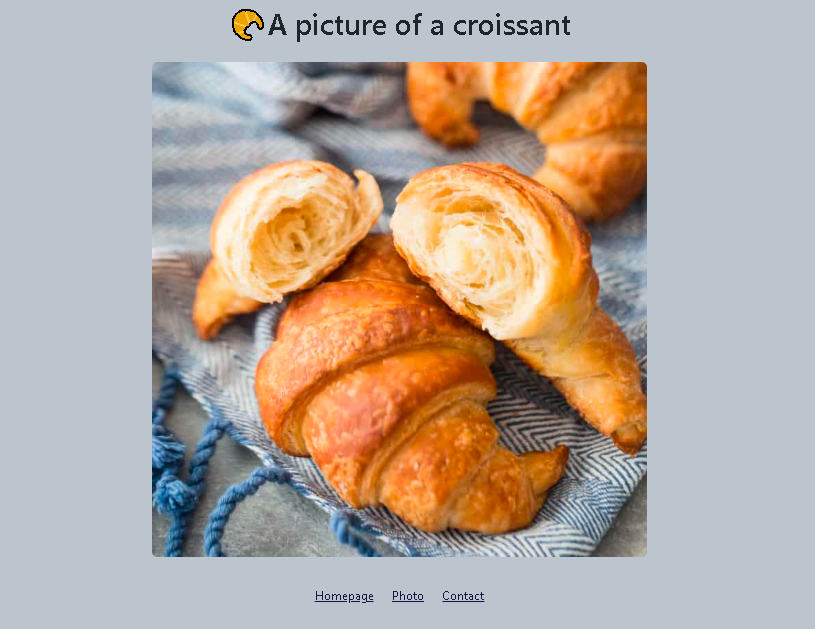
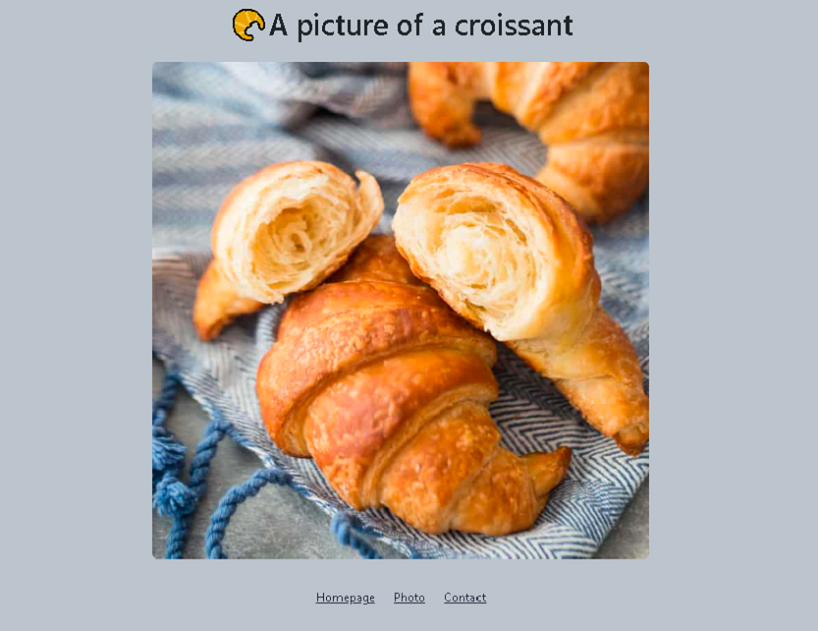
changed a size of all project photos and add my photo

diff --git a/about.html b/about.html
@@ -71,6 +71,11 @@
     </nav>
     <h1 class="text-center">About me</h1>
     <h3 class="text-center">Front-end developer from Cherkasy, Ukraine</h3>
+    <img
+      src="images/myPhoto.jpg"
+      class="myPhoto img-fluid p-2 shadow rounded"
+      title="Weather app my second project"
+    />
     <p>
       Lorem ipsum dolor sit amet, consectetur adipisicing elit. Numquam aperiam
       provident tempora? Cumque adipisci, non dolorem quia, odit qui alias

diff --git a/styles.css b/styles.css
@@ -25,7 +25,10 @@ h3 {
   text-align: center !important;
   margin: 0;
 }
-
+img.myPhoto {
+  display: block;
+  margin: 0 auto;
+}
 h1 {
   font-size: 60px !important;
   font-weight: 500;
